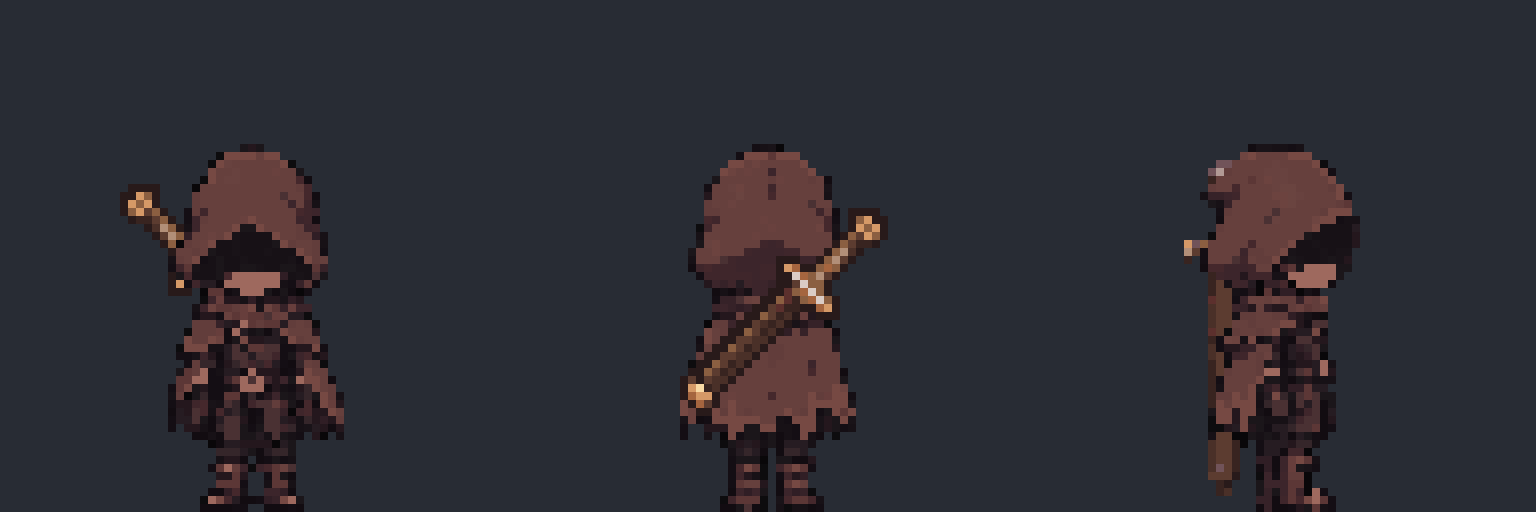
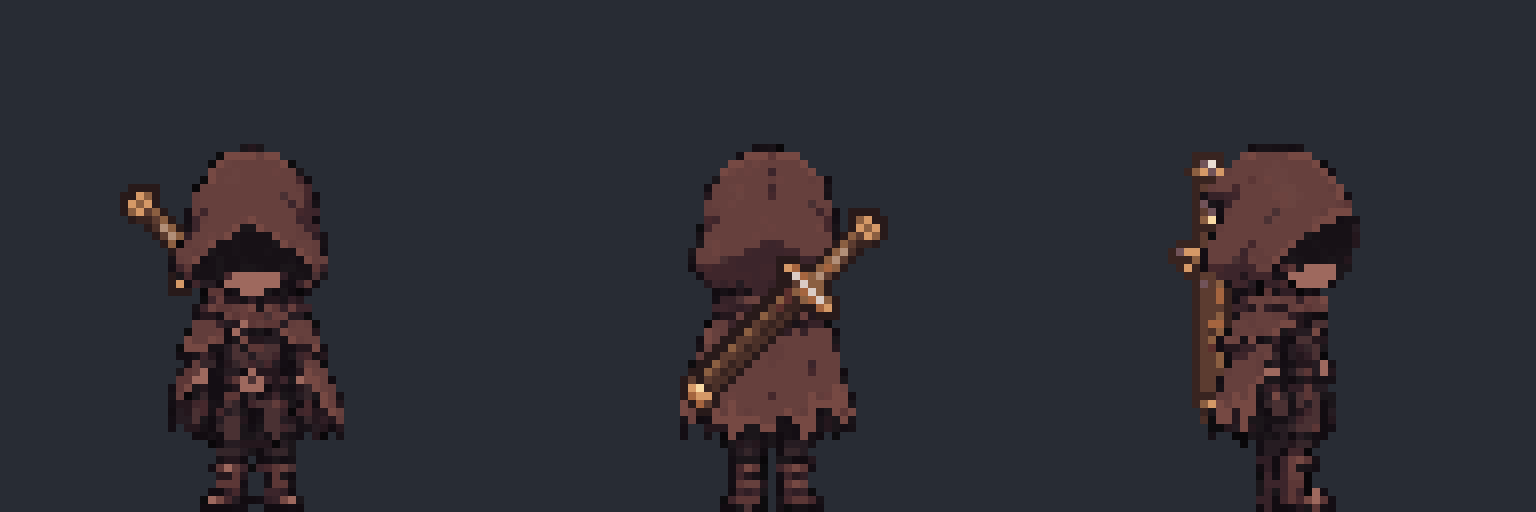
fix: 측면 등 칼을 같은 칼로 다시 그리고, 측면 회피 때는 숨김
측면 칼이 길이·비율·질감이 달라 보이고 회피 때 몸 아래로 삐져나온다는 사용자 지적.
사선 칼을 세운 밑그림으로 PixelLab 이 다시 그린 그림을 등선을 따라 놓고, 측면 회피 중에는 그리지 않는다.

diff --git a/assets/concepts/weapons/build_back_sword.py b/assets/concepts/weapons/build_back_sword.py
@@ -89,11 +89,12 @@ def place(item: Image.Image, guard: tuple[int, int], angle: float) -> Image.Imag
 
 # PixelLab 그림 (2026-11-18 사용자 결정: 계산해 돌린 칼집은 픽셀이 깔끔하지 않고 측면은 칼집처럼 안 보임).
 # 처음부터 그 각도로 그린 그림이라 돌리지 않는다. (파일, 좌우 반전, 그림의 가드 자리, 몸에 놓을 가드 자리 = 주인공 그림 좌표)
-# 사선 그림은 지금 칼집 모양을 밑그림으로 줘 칼날 두께에 맞춘 것 (pixellab_sheath/diag_C.png), 측면은 세로 그림 side_A.png.
+# 사선 그림은 지금 칼집 모양을 밑그림으로 줘 칼날 두께에 맞춘 것 (pixellab_sheath/diag_C.png).
 PIXELLAB_ART = {
     "front": ("diag_C.png", False, (16, 16), (8, 16)),
     "back": ("diag_C.png", True, (16, 16), (21, 19)),
-    "side": ("side_A.png", False, (12, 13), (9, 14)),
+    # 측면은 사선 그림(diag_C)을 세운 것을 밑그림으로 다시 그린 side_C (같은 칼로 보이게, 2026-11-18 사용자 지적)
+    "side": ("side_C.png", False, (12, 15), (7, 15)),
 }
 
 

diff --git a/tests/test_player.py b/tests/test_player.py
@@ -345,6 +345,16 @@ class BackSwordTest(unittest.TestCase):
         player.facing = Facing.UP
         self.assertEqual(self.draw(player), [sprite_sheet_path(IDLE, "back"), weapon_back_path(config.PLAYER_WEAPON, "back")])
 
+    def test_side_dodge_hides_back_sword(self):
+        # 측면 회피는 몸을 크게 숙여 등 칼을 그리지 않는다 (정면·후면 회피는 그림)
+        from game.player.player import weapon_back_path
+        for facing, view, shown in ((Facing.RIGHT, "side", False), (Facing.DOWN, "front", True)):
+            player = make_player()
+            player.facing = facing
+            player.dodge_tail_left = config.PLAYER_DODGE_TAIL_TIME / 2  # 회피 뒤 멈춤 그림
+            paths = self.draw(player)
+            self.assertEqual(weapon_back_path(config.PLAYER_WEAPON, view) in paths, shown, view)
+
     def test_offsets_match_sheets(self):
         # 위치표의 장 수가 그 상태 시트의 장 수와 같다
         from PIL import Image

diff --git a/game/config.py b/game/config.py
@@ -228,6 +228,9 @@ PLAYER_WEAPON = "old_sword"  # 시작 장비: 낡은 검
 # 후면은 등 위(몸 다음에), 정면·측면은 몸 뒤(몸 전에) 그린다. 왼쪽은 측면을 뒤집는다.
 PLAYER_BACK_SWORD_SIZE = 64
 PLAYER_BACK_SWORD_IN_FRONT = ("back",)
+# 등 칼을 그리지 않는 (상태, 방향): 측면 회피는 몸을 크게 숙여 세운 칼이 몸 아래로 삐져나와서 숙인 몸에 가려진다고 본다
+# (2026-11-18 사용자 지적).
+PLAYER_BACK_SWORD_HIDDEN = (("dodge", "side"),)
 # 상태·방향별로 장마다 등 칼을 옮길 양 (원본 픽셀, 앞쪽·위가 +): 그 장의 머리 꼭대기가 서 있기 첫 장보다 움직인 만큼.
 # build_back_sword.py --offsets 가 계산한 값. 피격·기절 등 서 있는 그림을 쓰는 상태는 idle 첫 장.
 PLAYER_BACK_SWORD_OFFSETS = {

diff --git a/game/player/player.py b/game/player/player.py
@@ -510,6 +510,9 @@ class Player:
                 center_x + (-dx if flip else dx) * scale, bottom + dy * scale,
                 size * scale, size * scale, flip_horizontal=flip)
 
+        if (state, view) in config.PLAYER_BACK_SWORD_HIDDEN:
+            draw_body()
+            return
         in_front = view in config.PLAYER_BACK_SWORD_IN_FRONT
         if not in_front:
             draw_sword()

diff --git a/docs/DECISIONS.md b/docs/DECISIONS.md
@@ -769,6 +769,8 @@
     PixelLab 이 처음부터 그 각도로 그린 그림으로 바꿨다 (`concepts/weapons/pixellab_sheath/`, 칼·가죽 색을 팔레트로 지정).
     사선(정면, 후면은 좌우 반전)은 계산한 칼집 모양을 밑그림으로 줘 칼날 두께에 맞춘 것, 측면은 세로 그림.
     `build_back_sword.py` 의 `PIXELLAB_ART` 가 그림의 가드 자리를 몸의 가드 자리에 맞춰 놓는다 (돌리지 않음).
+    측면은 처음 세로 그림이 다른 칼처럼 보여(길이·비율·질감, 사용자 지적) 사선 그림을 세운 것을 밑그림으로 다시 그린 side_C 로 바꾸고
+    등선을 따라 보이게 놓았다. 측면 회피 중에는 몸을 크게 숙여 세운 칼이 몸 아래로 삐져나와 그리지 않는다 (`PLAYER_BACK_SWORD_HIDDEN`).
   - 몸을 따라가게: 상태(idle·walk·jump·dodge)·방향·장마다 그 장의 머리 꼭대기가 서 있기 첫 장보다 움직인 양을
     `PLAYER_BACK_SWORD_OFFSETS` 로 두고(`build_back_sword.py --offsets`), 칼을 그만큼 옮긴다. 점프는 몸과 같이 뜬다.
     서 있는 그림을 쓰는 상태(피격 등)는 서 있기 첫 장. 회피 잔상에는 그리지 않는다.
